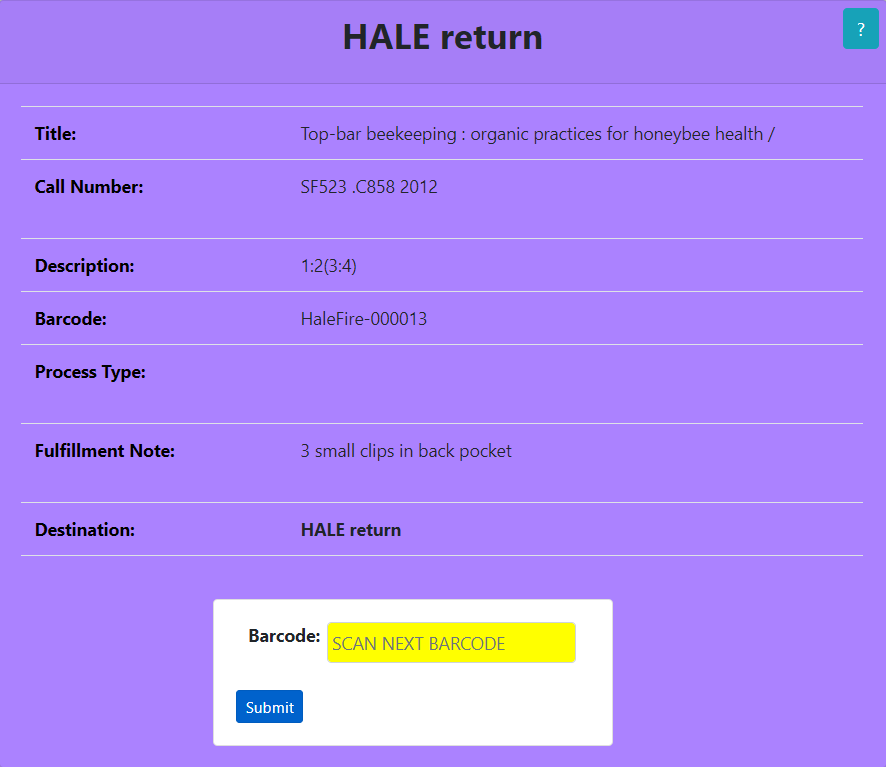
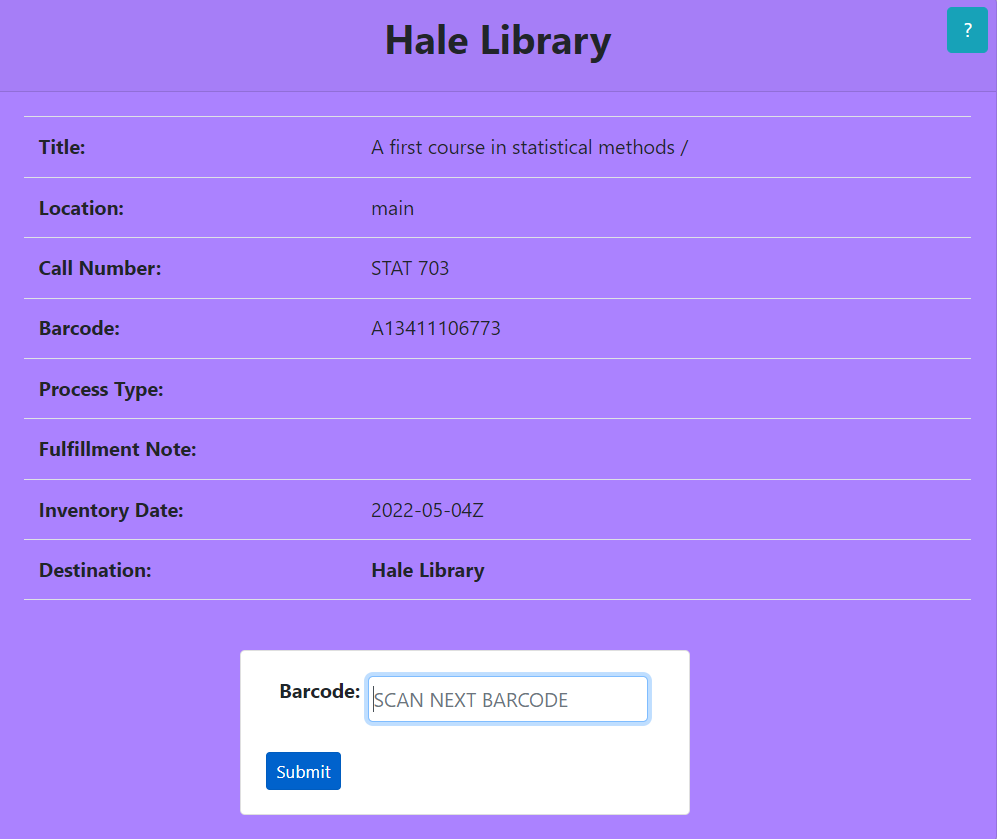
Updating Documentation
Updating Documentation

diff --git a/grimas/LusUnboxing/LusUnboxing.html b/grimas/LusUnboxing/LusUnboxing.html
@@ -1,51 +1,20 @@
-<!DOCTYPE html>
-<html lang="en">
-<head>
-<title>K-State Item Information - displays item information</title>
-</head>
-<div>
-<button class="lang">
-<a class="btn btn-lang btn-sm active" border="2" href="../DisplayItem/DisplayItem.html">
-<span>English</span>
-</a>
-</button>
-<button class="lang">
-<a class="btn btn-lang btn-sm" border="2" href="../DisplayItem/DisplayItem_esp.html">
-<span>Español</span>
-</a>
-</button>
-</div>
-<h1 id="k-state-item-information---displays-item-information">K-State Item Information - displays item information</h1>
-<p id=intro>This application facilitates the <strong>Unboxing Workflow</strong> by providing you with important information.  It provides you with the physical item's <strong>Title</strong>, <strong>Call Number</strong>, <strong>Description</strong>, <strong>Barcode</strong>, <strong>Process Type</strong>, <strong>Fulfillment Note</strong>, and its final <strong>Destination</strong>.  The application is color coded to provide a stimulated eye response, so please review the color code table below.  After scanning your first barcode, you will be able to scan your next barcode from the results page.  If you have any questions please do not hesitate to ask Library Staff.</p>
+<h1 id="k-state-lus-fulfillment-scan-in">K-State LUS Fulfillment Scan In</h1>
+<p>This application facilitates the material returns by removing Item Record Temporary Location Information. The output provides you with the physical item's <strong>Title, Location (i.e. Permanent Location Code), Call Number, Barcode, Process Type, Fulfillment Note, Inventory Date,</strong> and its final <strong>Destination (i.e. Permanent Library Description)</strong>.  The application is color coded to provide a stimulated eye response, so please review the color code table below.  After scanning your first barcode, you will be able to scan your next barcode from the results page.  If you have any questions please do not hesitate to ask Library Staff.</p>
 <h2 id="input">Input</h2>
 <ul>
-<li>Barcode of <strong>Unboxed</strong> physical item found from the outside cover, inside cover, or within the first 5 pages.  The barcode can be scanned in using the barcode scanner or typed in.  The search is not case sensitive.</li>
+<li>Barcode of <strong>Returned Item</strong> physical item found from the outside cover, inside cover, or within the first 5 pages.  The barcode can be scanned in using the barcode scanner or typed in.  The search is not case sensitive.</li>
 </ul>
 <h2 id="procedure">Procedure</h2>
 <p>The first form asks for you to scan a barcode.  This barcode can be scanned with the barcode scanner or by being typed in.  When you have located the barcode on the physical piece, enter that barcode into the form:
-<br>
-<img src="images/DisplayItem-out0.PNG" alt="Screenshot of grima form" border="2"/></p>
-<p>If the barcode does not exist within the system you will get an error.  Check the physical piece for other barocdes and if they all return the following error, place the physical item on the <strong>Problem Shelf</strong>:
-<br>
-<img src="images/DisplayItem-out1.PNG" alt="Screenshot of grima form" border="2"/></p>
-<p>The next form will display the <strong>Unboxed</strong> physical item information.  The <strong>Destination</strong> will display at the top of the page followed by <strong>Title</strong>, <strong>Call Number</strong>, <strong>Description</strong>, <strong>Barcode</strong>, <strong>Process Type</strong>, <strong>Fulfillment Note</strong>, and the<strong>Destination</strong> again.  The background color of the form is related to the physical item's destination.  <strong>Please review the color code table below.</strong>  If the <strong>Process Type</strong> row has a background color of <span style="color:#cd3700">red</span> place the physical item on the <strong>Problem Shelf</strong>, ignoring the stated destination.  If the <strong>Fulfillment Note</strong> row has a background color of <span style="color:#cd3700">red</span> place the physical item on the <strong>Problem Shelf</strong>, ignoring the stated destination:
-<br>
-<img src="images/DisplayItem-out2.PNG" alt="Screenshot of grima form" border="2"/></p>
-<br>
+<img src="images/DisplayItem-out0.PNG" alt="Screenshot of grima form" /></p>
+<p>If the barcode does not exist within the system you will get an error.  Check the physical piece for other barocdes and if they all return the following error, send the physical item to <strong>Metadata, Preservation, and Acquistions Database Maintenance Shelf</strong>:
+<img src="images/DisplayItem-out1.PNG" alt="Screenshot of grima form" /></p>
+<p>The next form will display the physical item information.  The <strong>Destination</strong> will display at the top of the page followed by <strong>Title</strong>, <strong>Location (i.e. Permanent Location Code)</strong>, <strong>Process Type</strong>, <strong>Fulfillment Note</strong>, <strong>Inventory Date</strong>, and the <strong>Destination (i.e. Permanent Library Description)</strong> again.  The background color of the form is related to the physical item's destination.  <strong>Please review the color code table below.</strong>  If the <strong>Process Type</strong> row has a background color of <span style="color:#cd3700">red</span> place the physical item on the <strong>Problem Shelf</strong>, ignoring the stated destination.  If the <strong>Fulfillment Note</strong> row has a background color of <span style="color:#cd3700">red</span> place the physical item on the <strong>Problem Shelf</strong>, ignoring the stated destination:</p>
+<p><img src="images/DisplayItem-out2.PNG" alt="Screenshot of grima form" /></p>
 <p>When ready, you can scan the next barcode using the form at the bottom of the page:</p>
-<p><img src="images/DisplayItem-out3.PNG" alt="Screenshot of grima form" border="2"/></p>
-<br>
+<p><img src="images/DisplayItem-out3.PNG" alt="Screenshot of grima form" /></p>
 <h2 id="color-code-table">Color Code Table</h2>
-<table border="3" width="100" style="
-    padding-right: 1px;
-    padding-bottom: 1px;
-    padding-left: 1px;
-    padding-top: 1px;
-    margin-right: 20px;
-    margin-top: 20px;
-    margin-bottom: 20px;
-    width: 1100px;
-">
+<table>
 <thead>
 <tr>
 <th>Destination</th>
@@ -54,30 +23,37 @@
 </thead>
 <tbody>
 <tr>
-<!--Added boarder to images-->
-<td><img src="images/DisplayItem-out4.PNG" alt="Screenshot of grima form"/></td>
-<td>Place physical item on <strong> HALE return</strong>shelves</td>
+<td><img src="images/DisplayItem-out4.PNG" alt="Screenshot of grima form" /></td>
+<td>Place physical item on <strong>HALE return</strong> shelves</td>
 </tr>
 <tr>
-<td><img src="images/DisplayItem-out6.PNG" alt="Screenshot of grima form"/></td>
+<td><img src="images/DisplayItem-out6.PNG" alt="Screenshot of grima form" /></td>
 <td>Place physical item on <strong>ANNEX ingest</strong> shelves</td>
 </tr>
 <tr>
-<td><img src="images/DisplayItem-out5.PNG" alt="Screenshot of grima form"/></td>
+<td><img src="images/DisplayItem-out5.PNG" alt="Screenshot of grima form" /></td>
 <td>Place physical item on <strong>To be WITHDRAWN</strong> shelves</td>
 </tr>
 <tr>
-<td><img src="images/DisplayItem-out9.PNG" alt="Screenshot of grima form"/></td>
+<td><img src="images/DisplayItem-out9.PNG" alt="Screenshot of grima form" /></td>
 <td>Place physical item on <strong>Problem Shelf</strong></td>
 </tr>
 <tr>
-<td><img src="images/DisplayItem-out7.PNG" alt="Screenshot of grima form"/></td>
+<td><img src="images/DisplayItem-out7.PNG" alt="Screenshot of grima form" /></td>
 <td>Place physical item on <strong>Problem Shelf</strong></td>
 </tr>
 <tr>
-<td><img src="images/DisplayItem-out8.PNG" alt="Screenshot of grima form"/></td>
+<td><img src="images/DisplayItem-out8.PNG" alt="Screenshot of grima form" /></td>
 <td>Place physical item on <strong>Problem Shelf</strong></td>
 </tr>
 </tbody>
 </table>
-</html>
+
+<div style="margin-top: 30px;margin-bottom: 10px;font-size: 0.8em;border-top: 1px solid #eee;padding-top: 8px;cursor: pointer;"
+     title="This message doesn't display in the registered version of Markdown Monster." onclick="window.open('https://markdownmonster.west-wind.com')">
+    <img src="https://markdownmonster.west-wind.com/favicon.png"
+         style="height: 20px;float: left; margin-right: 10px;"/>
+    created with the free version of
+    <a href="https://markdownmonster.west-wind.com"
+       target="top">Markdown Monster</a>
+</div>

diff --git a/grimas/LusUnboxing/LusUnboxing.md b/grimas/LusUnboxing/LusUnboxing.md
@@ -1,18 +1,18 @@
-# K-State Item Information - displays item information
+# K-State LUS Fulfillment Scan In
 
-This application facilitates the **Unboxing Workflow** by providing you with important information.  It provides you with the physical item's **Title**, **Call Number**, **Description**, **Barcode**, **Location**, **Process Type**, **Fulfillment Note**, and its final **Destination**.  The application is color coded to provide a stimulated eye response, so please review the color code table below.  After scanning your first barcode, you will be able to scan your next barcode from the results page.  If you have any questions please do not hesitate to ask Library Staff.
+This application facilitates the material returns by removing Item Record Temporary Location Information. The output provides you with the physical item's **Title, Location (i.e. Permanent Location Code), Call Number, Barcode, Process Type, Fulfillment Note, Inventory Date,** and its final **Destination (i.e. Permanent Library Description)**.  The application is color coded to provide a stimulated eye response, so please review the color code table below.  After scanning your first barcode, you will be able to scan your next barcode from the results page.  If you have any questions please do not hesitate to ask Library Staff.
 
 ## Input
-* Barcode of **Unboxed** physical item found from the outside cover, inside cover, or within the first 5 pages.  The barcode can be scanned in using the barcode scanner or typed in.  The search is not case sensitive.  
+* Barcode of **Returned Item** physical item found from the outside cover, inside cover, or within the first 5 pages.  The barcode can be scanned in using the barcode scanner or typed in.  The search is not case sensitive.  
 
 ## Procedure
 The first form asks for you to scan a barcode.  This barcode can be scanned with the barcode scanner or by being typed in.  When you have located the barcode on the physical piece, enter that barcode into the form:
 ![Screenshot of grima form](images/DisplayItem-out0.PNG)
 
-If the barcode does not exist within the system you will get an error.  Check the physical piece for other barocdes and if they all return the following error, place the physical item on the **Problem Shelf**:
+If the barcode does not exist within the system you will get an error.  Check the physical piece for other barocdes and if they all return the following error, send the physical item to **Metadata, Preservation, and Acquistions Database Maintenance Shelf**:
 ![Screenshot of grima form](images/DisplayItem-out1.PNG)
 
-The next form will display the **Unboxed** physical item information.  The **Destination** will display at the top of the page followed by **Title**, **Call Number**, **Description**, **Barcode**, **Location**, **Process Type**, **Fulfillment Note**, and the**Destination** again.  The background color of the form is related to the physical item's destination.  **Please review the color code table below.**  If the **Process Type** row has a background color of <span style="color:#cd3700">red</span> place the physical item on the **Problem Shelf**, ignoring the stated destination.  If the **Fulfillment Note** row has a background color of <span style="color:#cd3700">red</span> place the physical item on the **Problem Shelf**, ignoring the stated destination:
+The next form will display the physical item information.  The **Destination** will display at the top of the page followed by **Title**, **Location (i.e. Permanent Location Code)**, **Process Type**, **Fulfillment Note**, **Inventory Date**, and the **Destination (i.e. Permanent Library Description)** again.  The background color of the form is related to the physical item's destination.  **Please review the color code table below.**  If the **Process Type** row has a background color of <span style="color:#cd3700">red</span> place the physical item on the **Problem Shelf**, ignoring the stated destination.  If the **Fulfillment Note** row has a background color of <span style="color:#cd3700">red</span> place the physical item on the **Problem Shelf**, ignoring the stated destination:
 
 ![Screenshot of grima form](images/DisplayItem-out2.PNG)
 
